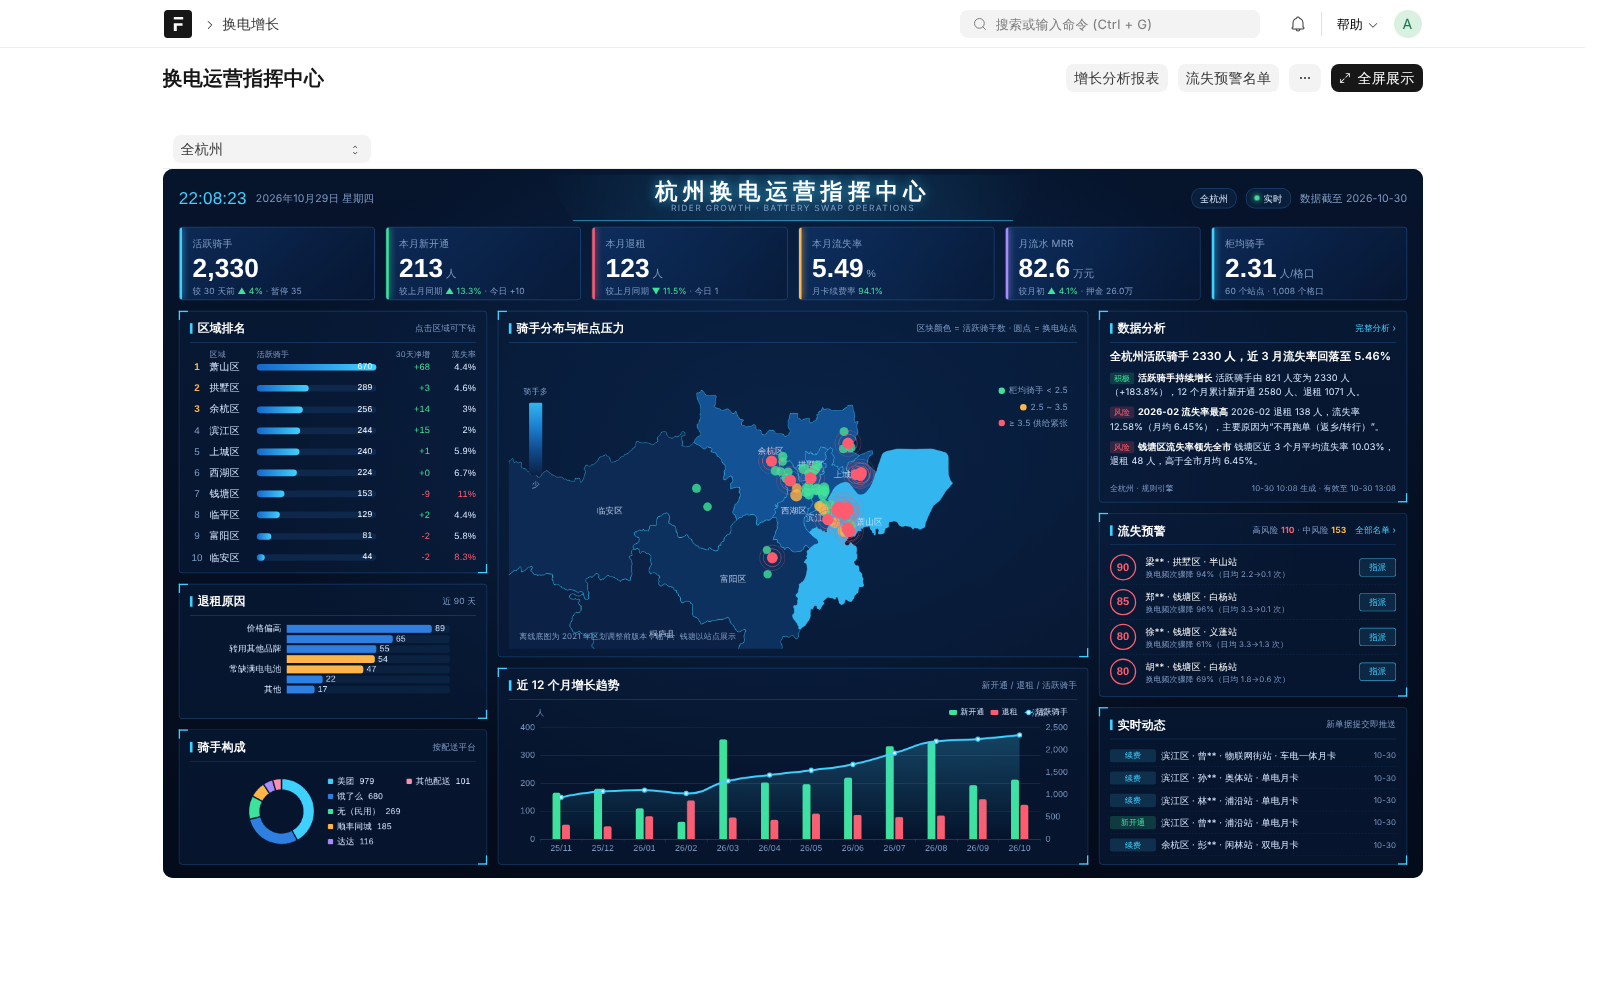
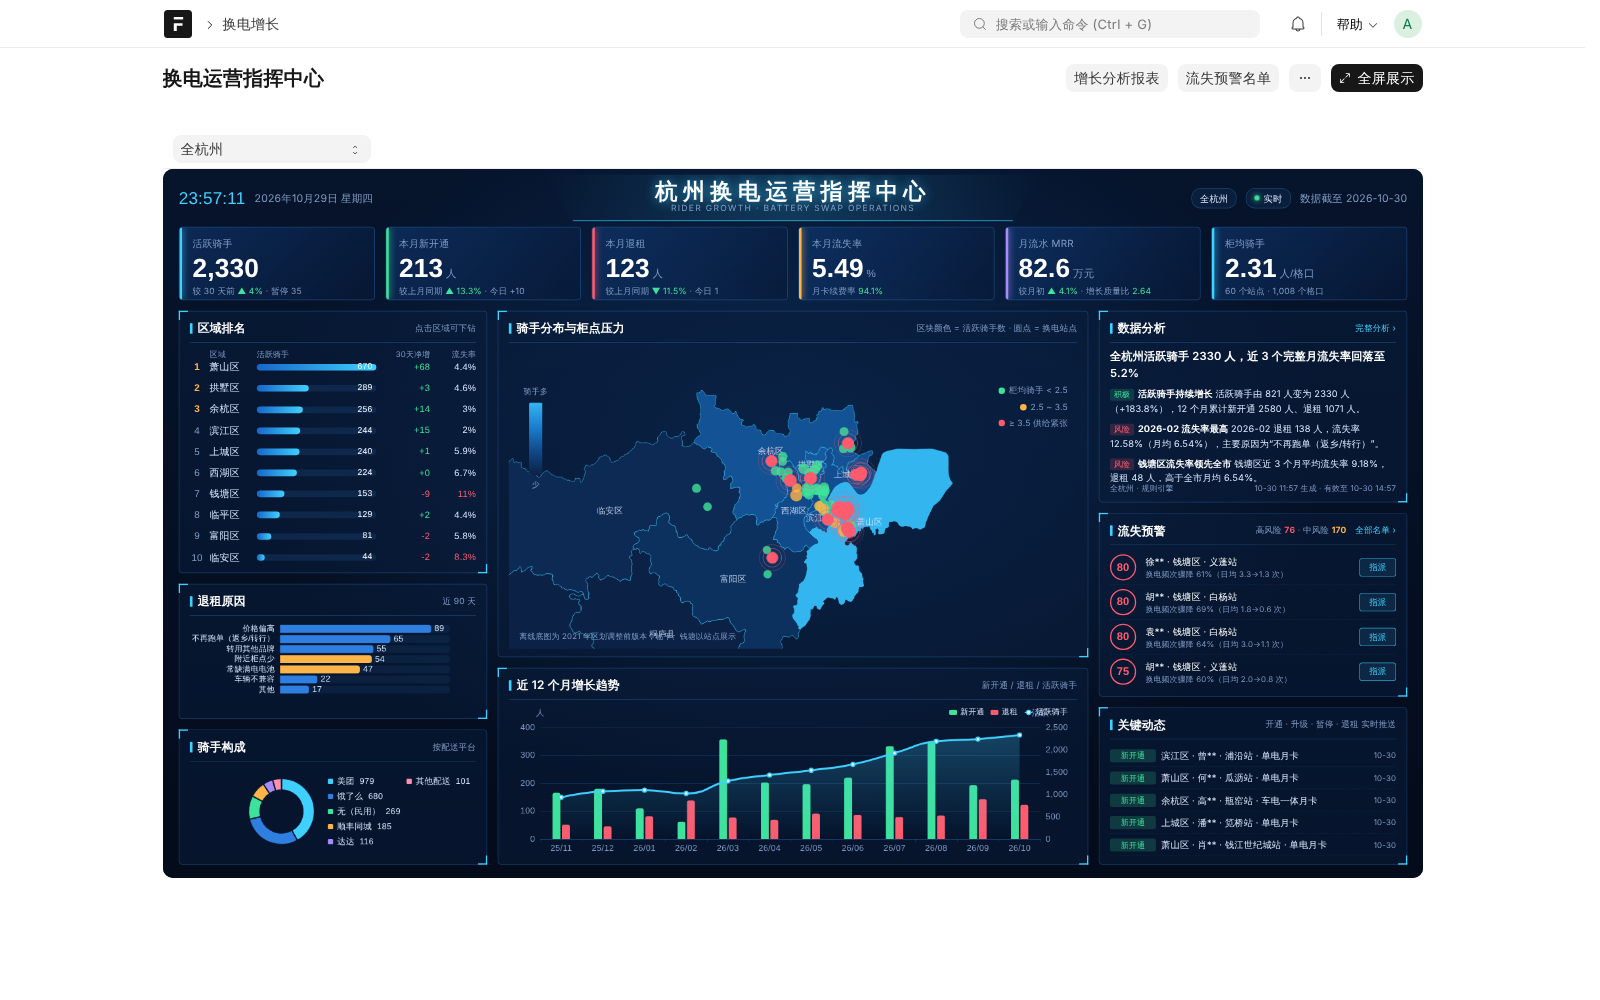
docs: 同步 README 与截图
Claude-Session: https://claude.ai/code/session_01CjxXaLtWTh5PuF9Sa22Gye

diff --git a/README.md b/README.md
@@ -42,6 +42,7 @@
 - 未在租的骑手只能"新开通"；在租骑手不能重复开通；曾退租再开通自动标记为**回流骑手**
 - 升级套餐必须高于原套餐，系统自动记录原套餐
 - 退租必须填写退租原因（用于流失归因）；押金方式开通的骑手退租后押金状态自动变为"待退还"
+- 再次开通的日期不能早于上次退租；只能作废骑手最近的一张单据，避免打断生命周期
 - 月费按套餐自动带出；负责人默认为所在区的区域经理；提交后不可修改，需作废后修订
 - 录入骑手编号即自动带出该骑手最近一次的画像；新骑手自动分配编号
 
@@ -64,9 +65,11 @@
 | 续费率 | 本期续费 ÷（续费 + 退租 + 暂停），即到期骑手中选择续费的比例 |
 | 月流水 MRR | 期末在租骑手当前套餐月费之和（暂停骑手不计） |
 | 押金沉淀 | 期末活跃且以押金方式开通的骑手押金合计 |
+| MRR 变动 | 参照订阅分析通行口径：新增（首次开通）、扩张（升级差额）、恢复（回流开通、暂停后恢复）、收缩（暂停）、流失（在租退租）；期初 MRR + 各项变动 = 期末 MRR（有单元测试校验） |
+| 增长质量比 | （新增 + 扩张 + 恢复 MRR）÷（流失 + 收缩 MRR）。大于 1 表示收入在增长，订阅行业通常以约 4 为健康 |
 | 柜均骑手 | 活跃骑手 ÷ 运营中站点的格口数，衡量供给压力 |
 
-所有报表、大屏、分析共用 `metrics.py` 中同一套"状态回放"逻辑，保证口径一致。
+所有报表、大屏、分析共用 `metrics.py` 中同一套"状态回放"逻辑，保证口径一致。尚未结束的当期标注"进行中"，平均值和趋势判断只使用已结束的周期。
 
 ## 四、演示数据
 
@@ -78,6 +81,8 @@
 4. **平台补贴**：7~8 月"平台合作"渠道开通激增，9~10 月补贴结束后该批骑手退租上升，原因集中在"价格偏高"
 
 > 演示数据为虚构，剧情为演示设定。可在《换电增长设置》中一键重新生成。
+>
+> **每日自动续写**：调度器每天按同样的业务规律补写到期续费、暂停、退租、新开通和上一周的换电汇总，演示站点在安装后的任何一天打开都是"最新"的（可在设置中关闭）。
 
 ## 五、功能说明
 
@@ -85,7 +90,8 @@
 ![增长分析报表](docs/screenshots/growth-report.png)
 
 - 筛选：时间、粒度（周/月/季）、区域、站点、平台、渠道、套餐、用户类型
-- 顶部 KPI 卡片，四种图表视图（新开通与退租 / 活跃骑手趋势 / 流失率与续费率 / 月流水）
+- 顶部 KPI 卡片，五种图表视图（新开通与退租 / 活跃骑手趋势 / 流失率与续费率 / MRR 变动 / 月流水）
+- MRR 变动拆解与增长质量比：看清收入增长来自新客、升级还是回流，流失又吃掉了多少
 - 指标口径可在页面内查看
 
 ### 2. 同期群留存
@@ -96,7 +102,7 @@
 ### 3. 运营指挥大屏
 - 按 1920×1080 设计，等比缩放，支持全屏，60 秒自动刷新
 - 杭州区划地图：区块颜色表示活跃骑手数，站点圆点颜色表示柜均骑手（供给压力），压力最高的站点带涟漪动画
-- 区域排名（点击下钻）、退租原因、骑手构成、12 个月趋势、数据分析摘要、流失预警 Top、实时动态
+- 区域排名（点击下钻）、退租原因、骑手构成、12 个月趋势、数据分析摘要、流失预警 Top、关键动态（开通/升级/暂停/退租，常规续费不刷屏）
 - **服务单提交后通过 Frappe Realtime（socket.io）实时推送到大屏**；菜单中提供"模拟录入一张新单据"便于现场演示
 
 ### 4. 流失预警
@@ -107,7 +113,7 @@
 | 信号 | 分值 |
 | --- | --- |
 | 换电频次骤降 ≥50% / 下降 30%~50%（近 2 周 vs 前 4 周，来自换电柜 IoT 周汇总） | +40 / +25 |
-| 当前暂停 | +20 |
+| 当前暂停（暂停 ≥20 天 / 未满 20 天；暂停期间不再重复计"换电下降"） | +35 / +25 |
 | 常用站点近 90 天 ≥3 人因柜点少/缺电退租 | +15 |
 | 近 150 天经补贴渠道开通 | +15 |
 | 所在区近 90 天流失率高于全市 1.3 倍 | +10 |
@@ -121,7 +127,8 @@
 - 支持选择分析区域（全杭州或单个区；区域经理只能选自己负责的区）
 - 输出：一句话结论、摘要、关键发现、原因分析、行动建议（含优先级与预期效果）、补柜/选址建议，并配统计图表（12 个月新开通/退租/流失率、退租原因构成）
 - **结果缓存 3 小时**：有效期内重复打开直接复用，不重复调用模型；超时或点击"重新分析"才重新生成；每次结果存档在《数据分析记录》
-- 大模型：**DeepSeek** 或 **智谱 GLM**（OpenAI 兼容接口），在《换电增长设置》中填写 API Key；未配置或调用失败时自动降级为内置规则引擎，演示不中断
+- 大模型：**DeepSeek**（默认 `deepseek-v4-flash`）或 **智谱 GLM**（默认免费的 `glm-4.7-flash`），OpenAI 兼容接口，在《换电增长设置》中填写 API Key；默认关闭思考模式以缩短等待；服务商不支持可选参数时自动去参重试；未配置或调用失败时降级为内置规则引擎，演示不中断
+- 并发保护：同一范围同时只生成一次，大屏和分析页同时打开不会重复调用模型；修改模型设置后旧缓存立即失效
 - 隐私：只向模型发送聚合后的经营指标，**不发送任何骑手个人信息**
 
 ## 六、安装
